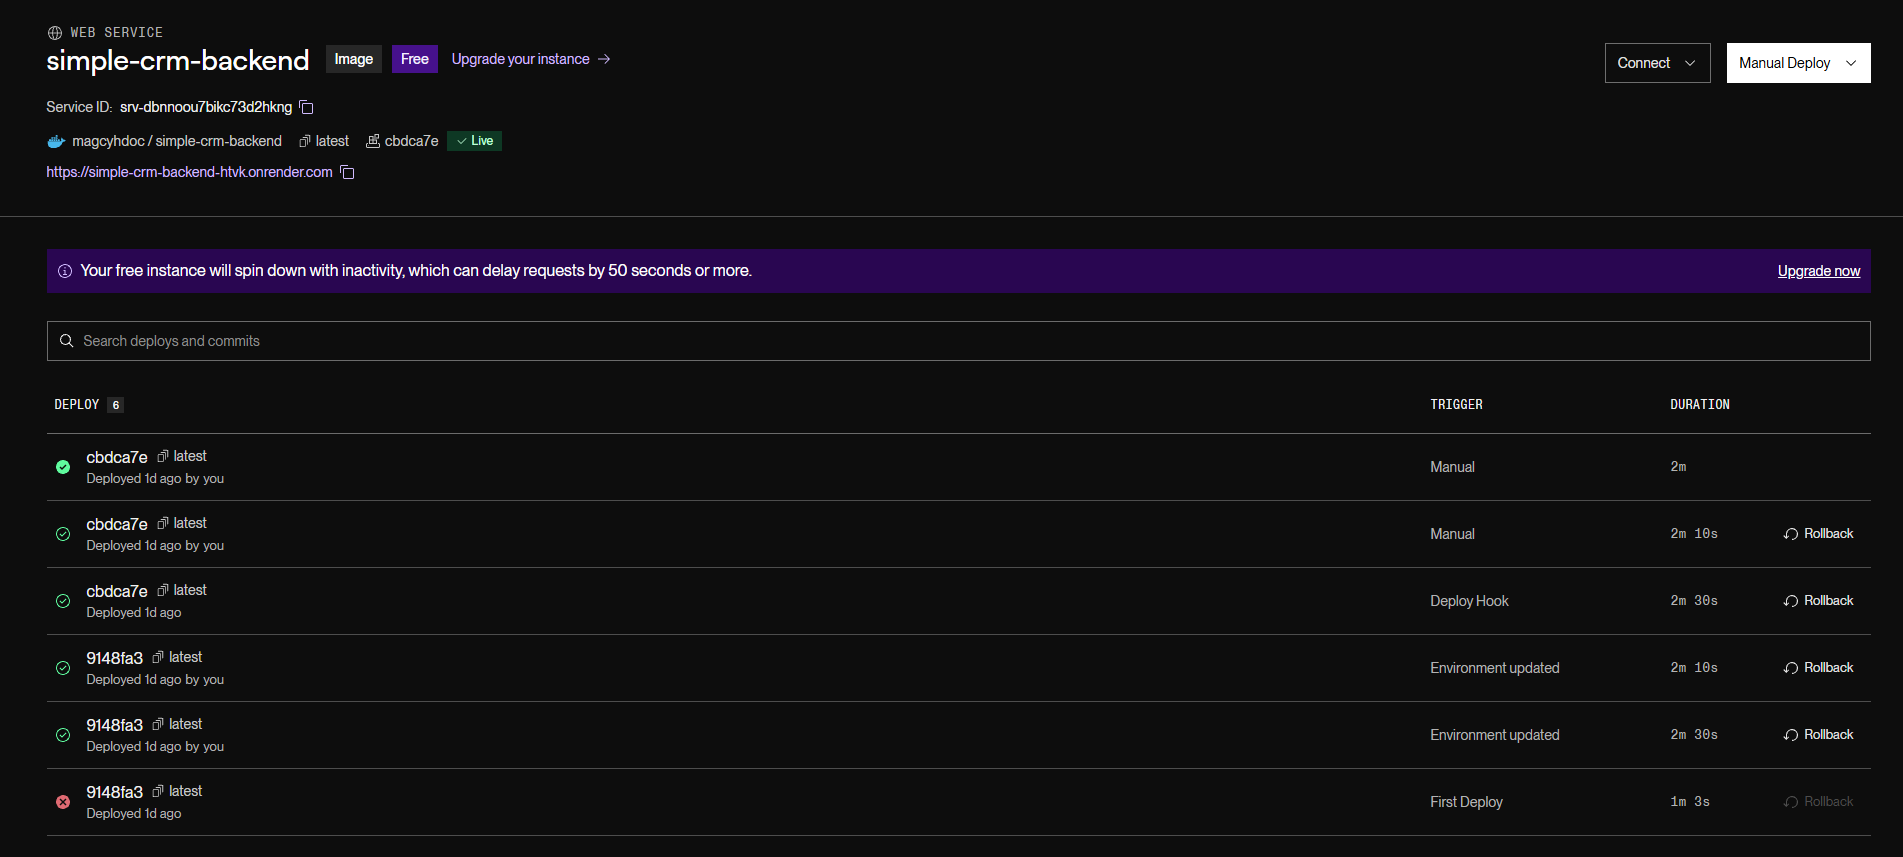
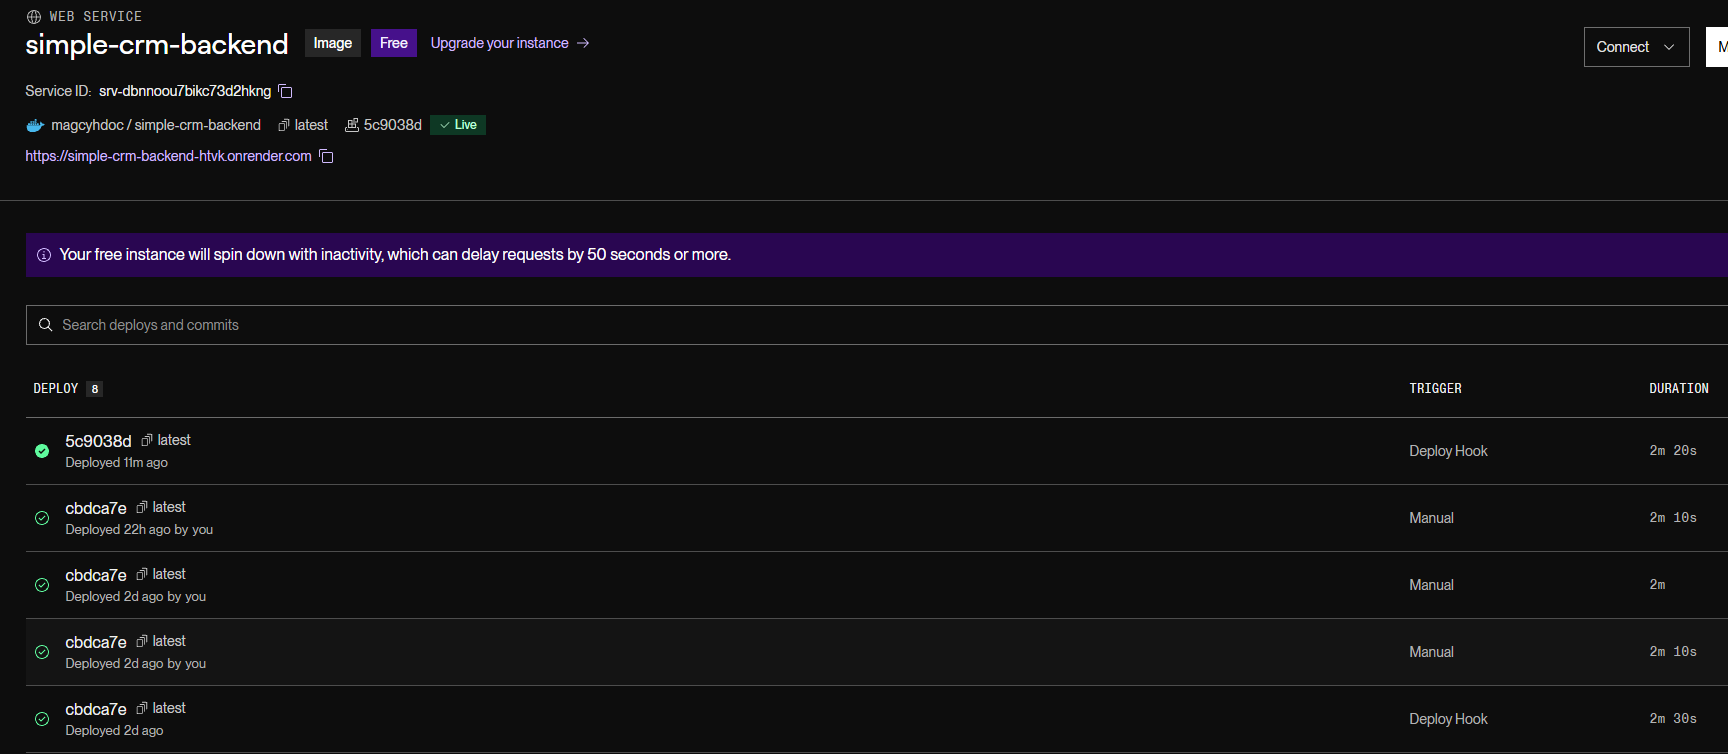
Update the circleci script and README file

diff --git a/README.md b/README.md
@@ -12,7 +12,7 @@ The submission consists of a Dockerized Java 21 Spring Boot API, a PostgreSQL da
 | Live backend API | https://simple-crm-backend-htvk.onrender.com |
 | Live frontend | https://simple-crm-frontend.netlify.app/login |
 | Docker Hub image | https://hub.docker.com/r/magcyhdoc/simple-crm-backend |
-| CircleCI pipeline | https://app.circleci.com/workflow/d9836b95-b779-46db-ac74-7360bd5bc84f |
+| CircleCI pipeline | https://app.circleci.com/pipelines/gh/magcal90?useNewPipelines=true |
 | Frontend repository | https://github.com/magcal90/simple-crm-web |
 | Frontend GitHub Actions | https://github.com/magcal90/simple-crm-web/actions |
 
@@ -26,25 +26,33 @@ The backend and frontend use separate automated delivery pipelines. A push to ea
 flowchart LR
     A[Backend push to GitHub] --> B[CircleCI workflow]
     B --> C[Build Java application]
-    C --> D[Run automated tests with PostgreSQL]
-    D --> E[Build image using Dockerfile]
-    E --> F[Push versioned and latest images to Docker Hub]
-    F --> G[Trigger Render deploy hook]
-    G --> H[Render pulls the image and deploys the backend]
+    B --> D[Snyk dependency scan]
+    B --> E[Snyk Code scan]
+    C --> F[Run automated tests with PostgreSQL]
+    F --> G[Publish versioned and latest images to Docker Hub on main]
+    D --> G
+    E --> G
+    G --> H[Trigger Render deploy hook]
+    H -->|success| I[Send success notification to Discord]
+    H -->|failure| J[Send failure notification to Discord]
+    H --> K[Render pulls the image and deploys the backend]
 
-    I[Frontend push to GitHub] --> J[GitHub Actions workflow]
-    J --> K[Build and verify frontend]
-    K --> L[Deploy frontend to Netlify]
+    F1[Frontend push to GitHub] --> F2[GitHub Actions workflow]
+    F2 --> F3[Build and verify frontend]
+    F3 --> F4[Deploy frontend to Netlify]
 ```
 
 ### Backend: GitHub → CircleCI → Docker Hub → Render
 
-The backend pipeline is defined in [`.circleci/config.yml`](.circleci/config.yml) and runs the following jobs:
+The backend pipeline is defined in [`.circleci/config.yml`](.circleci/config.yml) and runs these jobs:
 
 1. **Build:** CircleCI checks out the GitHub repository, restores the Maven dependency cache, reads the application version from `release.env`, and packages the Spring Boot application with Java 21.
-2. **Test:** CircleCI starts a PostgreSQL 16 service container, waits for it to become ready, and runs the automated Maven test suite. Test reports are retained as CircleCI results and artifacts.
-3. **Publish:** For a successful build on the `main` branch, CircleCI builds the production container using the repository's multi-stage `Dockerfile`. It tags the image with both the release version and `latest`, then authenticates and pushes both tags to Docker Hub.
-4. **Deploy:** After publishing succeeds, CircleCI calls the secret `RENDER_DEPLOY_HOOK`. Render then pulls the latest published backend image and redeploys the service.
+2. **Snyk dependency scan:** Snyk scans the Maven dependencies for known vulnerabilities. The scan uses a high severity threshold, but findings do not fail the job (`fail-on-issues: false`).
+3. **Snyk Code scan:** Snyk Code runs static application security testing against the source code. It uses the same high severity threshold and non-blocking findings setting.
+4. **Test:** After the build succeeds, CircleCI starts a PostgreSQL 16 service container, waits for it to become ready, and runs the automated Maven test suite. Test reports are retained as CircleCI results and artifacts.
+5. **Publish:** Only on `main`, and after the tests and both Snyk jobs succeed, CircleCI builds the production container using the repository's multi-stage `Dockerfile`. It tags the image with both the release version and `latest`, then authenticates and pushes both tags to Docker Hub.
+6. **Deploy:** After publishing succeeds, CircleCI calls the secret `RENDER_DEPLOY_HOOK`. Render then pulls the latest published backend image and redeploys the service.
+7. **Discord notification:** CircleCI posts a success or failure message to Discord based on the result of the deploy-hook job. This reports whether the hook job succeeded; it does not independently verify that Render has finished starting the new deployment. Failures before the deploy job do not trigger either notification.
 
 The CircleCI project uses these protected environment values:
 
@@ -53,8 +61,10 @@ The CircleCI project uses these protected environment values:
 | `DOCKER_USERNAME` | Docker Hub account used to publish the image |
 | `DOCKER_TOKEN` | Docker Hub access token used by CircleCI |
 | `RENDER_DEPLOY_HOOK` | Private Render hook used to start deployment |
+| `SNYK_TOKEN` | Snyk API token used by the Snyk orb |
+| `DISCORD_WEBHOOK_URL` | Discord webhook used to post deployment notifications |
 
-These values are configured in CircleCI and are not stored in the repository.
+Configure these values in CircleCI as protected project environment variables or contexts (the publish job uses the `docker-hub` context). They are not stored in the repository.
 
 The `Dockerfile` is used for the deployable production image. `docker-compose.yml` is used locally to run the same backend together with PostgreSQL; it is not part of the CircleCI publish/deploy jobs.
 
@@ -66,21 +76,33 @@ The exact frontend workflow configuration and its run history are available from
 
 ### CI/CD evidence
 
-The successful CircleCI workflow completed all four backend jobs—build, test, publish, and deploy:
+The successful CircleCI workflow completed the build, both Snyk scans, tests, publish, deploy, and success-notification jobs. The failure-notification job was skipped because the deploy job succeeded:
 
-![Successful CircleCI build, test, publish, and deploy workflow](doc/images/circleci_pipeline-detail.png)
+![Successful CircleCI workflow showing build, Snyk scans, tests, publish, deploy, and Discord notification](doc/images/circleci_pipeline-detail.png)
+
+The Snyk project dashboard shows the dependency scan results for the Maven project and Dockerfile. Findings are visible in Snyk; the CircleCI configuration does not fail the pipeline for findings:
+
+![Snyk dependency scan results for the backend project](doc/images/snyk_scan.png)
+
+The success notification is posted to Discord after the deploy-hook job succeeds:
+
+![Successful CircleCI deployment notification posted to Discord](doc/images/discord-notification.png)
 
 The published Docker Hub repository contains `latest` and versioned image tags:
 
 ![Versioned Simple CRM backend images in Docker Hub](doc/images/docker-hub.png)
 
+The Docker Hub tags page shows the current `latest` tag alongside release-versioned images:
+
+![Latest and versioned Simple CRM backend image tags in Docker Hub](doc/images/docker-hub-tag.png)
+
 Render is configured as an image-based service and shows a successful deployment triggered through the deploy hook:
 
 ![Render backend deployment history showing a successful deploy-hook deployment](doc/images/render-backend.png)
 
-The frontend GitHub Actions verification workflow completed successfully:
+The frontend GitHub Actions page shows successful CI runs and OWASP ZAP baseline security scans:
 
-![Successful frontend GitHub Actions workflow](doc/images/github-action-frontend.png)
+![Successful frontend CI and OWASP ZAP baseline scan workflows](doc/images/github-zap-baseline-scan.png)
 
 Netlify shows the frontend as published from GitHub:
 
@@ -217,26 +239,6 @@ set +a
 ./mvnw --batch-mode -Drevision="$RELEASE_VERSION" verify
 ```
 
-## Assignment requirements and submission status
-
-- [x] Simple CRM selected as Option 3.
-- [x] Multi-stage `Dockerfile` added at the repository root.
-- [x] Docker Compose configuration added for the API and PostgreSQL.
-- [x] CircleCI configured to build and test the backend.
-- [x] CircleCI configured to publish versioned and `latest` images to Docker Hub.
-- [x] CircleCI configured to trigger the Render deployment after publication.
-- [x] Frontend delivery configured through GitHub Actions and Netlify.
-- [x] Backend source code pushed to GitHub.
-- [x] Backend deployed publicly on Render.
-- [x] Frontend deployed publicly on Netlify.
-- [ ] Confirm acceptance of Render as the hosting platform instead of Railway.
-- [x] Add deployment screenshots showing the active Render backend and PostgreSQL database.
-- [x] Add CI/CD screenshots showing CircleCI, Docker Hub, GitHub Actions, and Netlify.
-- [x] Add a screenshot showing the frontend populated from the live backend API.
-- [x] Add the direct URL of a successful CircleCI workflow under **Submission links**.
-- [ ] Complete a final check of the GitHub, backend, and frontend links.
-- [ ] Commit and push the final README and screenshot files.
-
 ## Known deviation and issues
 
 - **Hosting platform:** The backend is hosted on Render rather than Railway because of Railway service limitations at the time of development.
@@ -244,4 +246,4 @@ set +a
 
 ## Versioning
 
-`release.env` currently defines `RELEASE_VERSION=0.1.4`. Docker Compose passes it to the build as `APP_VERSION`, and Maven uses it as the application artifact version.
+`release.env` currently defines `RELEASE_VERSION=0.1.6`. Docker Compose passes it to the build as `APP_VERSION`, and Maven uses it as the application artifact version.
